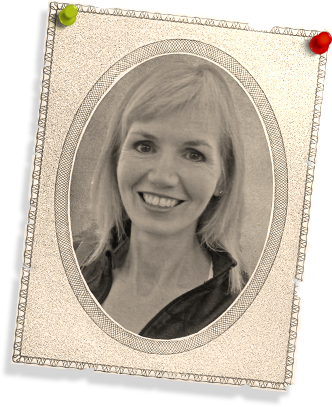
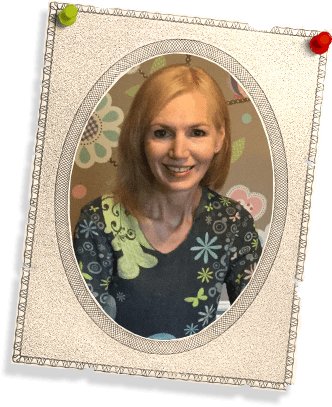
New headshot and availability

diff --git a/index.html b/index.html
@@ -97,7 +97,7 @@
               <br />
               <h2 id="availability">Availability</h2>
               
-              <p><strong>I have one full-time space for age 2 and older available January 2017.</strong> Inquiries are welcomed.</p>
+              <p><strong>I have two full-time spaces for ages 1 to 5 available July 2018.</strong> Inquiries are welcomed.</p>
               <ul>
                 <li>$900.00 for full-time under age 2</li>
                 <li>$800.00 for full-time age 2 and older</li>
